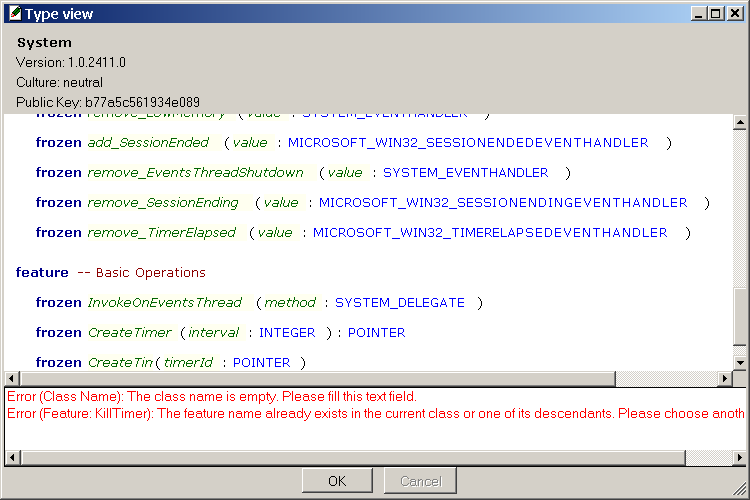
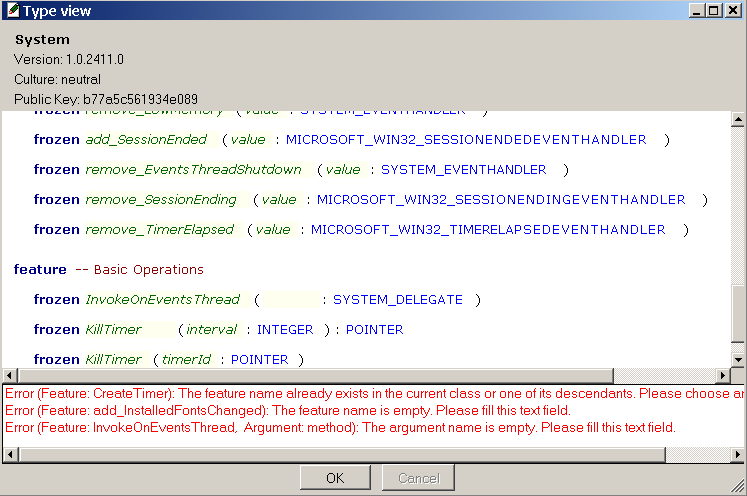
New version
SVN: 25416@trunk

Changed region(s): [[0.0, 0.0, 1.0, 1.0], [0.3079, 0.5746, 0.6158, 0.756]]

diff --git a/Src/dotnet/reflection_interface/docs/reference/30_type_view/index.html b/Src/dotnet/reflection_interface/docs/reference/30_type_view/index.html
@@ -16,8 +16,13 @@
 
 		<p>
 			The type view is an editable short form of an Eiffel class. At the top of the window, the name, version, culture and public key of the assembly the edited type belongs to is repeated.<br>
-			In the panel below, you will notice that some words appear with a colored background. These are the words, which are editable. It includes the class name (the Eiffel one), the name of each feature and its arguments names (if any), except for the creation routine.
+			In the panel below, you will notice that some words appear with a colored background. These are the words, which are editable. It includes the the name of each local feature and its arguments names (if any), except for the creation routine.
 		</p>
+
+		<p class = "note">
+			<b>Note</b>: Only <b>local features</b> (i.e. first defined in the currently edited class) and its arguments names are editable. If you want to rename a feature, which is inherited (or an argument whose related feature is inherited) you have to switch to the parent class to change the feature name (or argument name).
+		</p>
+
 		<p>
 			<center>
 				<img src = "../../images/type_view.png" no border>
@@ -28,14 +33,9 @@
 		<h2>Facilities provided by the type view:</h2>
 
 		<ul>
-		<a name = rename_class></a>
-		<li><b>Rename an external class</b><br>
-			When you open the type view (by clicking on the type Eiffel name in the <a href = "../20_assembly_view/index.html">assembly view</a>), the class name text field is automatically selected. You just have to type the new class name.
-		</li><br>
-
 		<a name = rename_feature></a>
 		<li><b>Rename a class feature</b><br>
-			To rename a feature, just give the focus to the text field you want to edit (by clicking with the mouse) and type the new feature name.
+			When you open the type view (by clicking on the type Eiffel name in the <a href = "../20_assembly_view/index.html">assembly view</a>), the text field with first class feature name is automatically selected. You just have to type the new feature name.
 		</li><br>
 
 		<a name = rename_argument></a>
@@ -46,7 +46,7 @@
 
 		<p>
 			Note that your changes will only be taken into account when you click on `OK'. If you click on `Cancel', your changes will be lost.<br>
-			Nevertheless, ISE Assembly Manager first checks that your changes are consistent before saving them. In case problems are detected, the list of errors appears at the bottom of the type view. Each error mentions the location of the error, that is "Class name" or "Feature name" (and the original name of the problematic feature) or "Argument name" (with the name of the feature it belongs to and the original name of the argument).
+			Nevertheless, ISE Assembly Manager first checks that your changes are consistent before saving them. In case problems are detected, the list of errors appears at the bottom of the type view. Each error mentions the location of the error, that is "Feature name" (and the original name of the problematic feature) or "Argument name" (with the name of the feature it belongs to and the original name of the argument).
 		</p>
 		<p>
 			<center>

diff --git a/Src/dotnet/reflection_interface/docs/reference/01_imported_assembly_viewer/index.html b/Src/dotnet/reflection_interface/docs/reference/01_imported_assembly_viewer/index.html
@@ -43,7 +43,7 @@
 					</center>
 				</p>
 				<p>
-					The first six menu items enable you to show new columns in the array. By default, only the assembly name and the path to Eiffel  sources are visible. But you may want to see also the assembly version, culture and public key or assembly dependencies That is the aim of these six items. The first six toolbar buttons give you the same opportunity: <img src = "../../images/imported_assembly_viewer_view_toolbar.png" no border><br>
+					The first six menu items enable you to show new columns in the table. By default, only the assembly name and the path to Eiffel  sources are visible. But you may want to see also the assembly version, culture and public key or assembly dependencies That is the aim of these six items. The first six toolbar buttons give you the same opportunity: <img src = "../../images/imported_assembly_viewer_view_toolbar.png" no border><br>
 					The last two items of the `View' menu are only a faster way to show all columns or come back to the initial layout.
 				</p>
 				<p>
@@ -54,7 +54,7 @@
 					</center>
 				</p>
 				<p class = "note">
-					<b>Note</b> that when you click on `Show dependencies', a new column will be added to the initial array. But it will only show the names of dependencies. If you want some more precise information about them, just select `Dependency Viewer' in the `Tools' menu to open the <a href = "../10_dependency_viewer/index.html">dependency viewer</a> and have a more complete view of each dependency.
+					<b>Note</b> that when you click on `Show dependencies', a new column will be added to the initial table. But it will only show the names of dependencies. If you want some more precise information about them, just select `Dependency Viewer' in the `Tools' menu to open the <a href = "../10_dependency_viewer/index.html">dependency viewer</a> and have a more complete view of each dependency.
 				</p>
 
 			<h3>The `Tools' menu</h3>
@@ -103,7 +103,7 @@
 			</p>
 			<ul>
 				<li><b>Help Topics</b></li><br>
-					This item (as well as the toolbar button <img src = "../../images/help_toolbar_button.png" no border>) opens the help topics about ISE Eiffel Studio where you can find the current help about ISE Assembly Manager.
+					This item (as well as the toolbar button <img src = "../../images/help_toolbar_button.png" no border>) opens the current help about ISE Assembly Manager.
 				<br><br>
 
 				<li><b>About ISE Assembly Manager</b></li><br>

diff --git a/Src/dotnet/reflection_interface/docs/introduction.html b/Src/dotnet/reflection_interface/docs/introduction.html
@@ -12,12 +12,12 @@
 		<P>Availability: Enterprise Edition</P>
 
 		<p>
-			To use the APIs of the .NET framework in your Eiffel Sharp systems, you need to emit the external Eiffel classes corresponding to these assemblies.	ISE Assembly Manager provides you with a simple way to do this. The only requirement is that the assembly you want to import to the "Eiffel assembly cache" is signed.<br>
-			Once you have imported the assemblies to the Eiffel assembly cache, ISE Assembly Manager gives you another powerful ability: edit types of the imported assemblies. Thus you will be able to change the automatically generated names of class, features and arguments to have a user-friendlier interface. Of course, ISE Assembly Manager will check the consistency of your modifications before saving the changes and updating the corresponding Eiffel classes.
+			To use the APIs of the .NET framework in your Eiffel Sharp systems, you need to emit the <a href = "./reference/00_definitions/external_class.html">external Eiffel classes</a> corresponding to these assemblies.	ISE Assembly Manager provides you with a simple way to do this. The only requirement is that the assembly you want to import to the "<a href = "./reference/00_definitions/eiffel_assembly_cache.html">Eiffel assembly cache</a>" is signed.<br>
+			Once you have imported the assemblies to the Eiffel assembly cache, ISE Assembly Manager gives you another powerful ability: edit types of the imported assemblies. Thus you will be able to change the automatically generated names of class features and arguments to have a user-friendlier interface. Of course, ISE Assembly Manager will check the consistency of your modifications before saving the changes and updating the corresponding Eiffel classes.
 		</p>
 		<p>
 			Since the importation time is quite long (a few minutes to up to twenty minutes for assemblies such as `System.Windows.Forms.dll', which have many dependencies), the most commonly used assemblies of the .NET framework are already imported to the Eiffel assembly cache in the delivery. <br>
-			Thus you will be able to enjoy the possibility of renaming your Eiffel classes as soon as you get the ISE Assembly Manager delivery.
+			Thus you will be able to enjoy the possibility of renaming your Eiffel classes features as soon as you get the ISE Assembly Manager delivery.
 		</p>
 		<p>
 			<b>Happy Eiffel Sharp developing with ISE Assembly Manager !</b>

diff --git a/Src/dotnet/reflection_interface/docs/how_to_s/01_import_a_signed_assembly_to_the_EAC/index.html b/Src/dotnet/reflection_interface/docs/how_to_s/01_import_a_signed_assembly_to_the_EAC/index.html
@@ -26,13 +26,13 @@
 		<ul>
 			<li><b>To import a signed assembly, which is in the Global Assembly Cache:</b></li><br>
 			<ol>
-				<li>Click on the name of the shared assembly you want to import (in the array listing all shared assemblies)</li>
-				<li>Click on the following toolbar button <img src = "../../images/import_dialog_toolbar_button.png" no border> or select the menu item `Import' in the `Tools' menu. In both cases, the <a href = "../../reference/70_import_dialog/index.html">import dialog</a> will appear and guide you to import the selected assembly to the Eiffel assembly cache.</li>
+				<li>Click on the name of the shared assembly you want to import (in the table listing all shared assemblies)</li>
+				<li>Click on the following toolbar button <img src = "../../images/import_dialog_toolbar_button.png" no border> or select the menu item `Import' in the `Tools' menu. In both cases, the <a href = "../../reference/70_import_dialog/index.html">import dialog</a> will appear and help you import the selected assembly to the Eiffel assembly cache.</li>
 			</ol>
 			<br>
 			<li><b>To import a signed assembly, which is in not in the Global Assembly Cache:</b></li><br>
 			<p>
-				Click on the open toolbar button <img src = "../../images/open_assembly_toolbar_button.png" no border> or select the menu item `Open Assembly' in the `File' menu. In both cases, the <a href = "../../reference/80_open_assembly_dialog/index.html">open assembly dialog</a> will appear. You just have to select the signed assembly you want to import and click on `Open' to open the <a href = "../../reference/70_import_dialog/index.html">import dialog</a>, which will guide you to import the selected assembly to the Eiffel assembly cache.
+				Click on the open toolbar button <img src = "../../images/open_assembly_toolbar_button.png" no border> or select the menu item `Open Assembly' in the `File' menu. In both cases, the <a href = "../../reference/80_open_assembly_dialog/index.html">open assembly dialog</a> will appear. You just have to select the signed assembly you want to import and click on `Open' to open the <a href = "../../reference/70_import_dialog/index.html">import dialog</a>, which will help you import the selected assembly to the Eiffel assembly cache.
 			</p>
 		</ul>
 		<br>

diff --git a/Src/dotnet/reflection_interface/docs/reference/40_remove_dialog/index.html b/Src/dotnet/reflection_interface/docs/reference/40_remove_dialog/index.html
@@ -18,27 +18,12 @@
 			The remove dialog aims at enabling you to remove an imported assembly from the Eiffel assembly cache. Nevertheless, it tries to make sure you really want to remove the selected assembly since the importation time is quite long (up to twenty minutes for some assemblies, such as `System.Windows.Forms').<br>
 			At the top of the window, you can find the name, version, culture and public key of the selected assembly for removal, so that there cannot be any misunderstanding about the assembly to remove. <br>
 			At this point, you still have the possibility not to remove the assembly by clicking on the `No' button.<br>
-			In case you really want to remove the assembly, you also have the opportunity to remove its dependencies. To do so, you just have to check the box `Remove dependencies'. By default, the option to remove dependencies is not checked.
+			ISE Assembly Manager will remove the selected assembly as soon as you click `Yes'.
 		</p>
 		<p>
 			<center>
 				<img src = "../../images/remove_dialog.png" no border>
 			</center>
 		</p>
-		<p>
-			If the box `Remove dependencies' is not checked, ISE Assembly Manager will remove the selected assembly as soon as you click `Yes'. Otherwise, a warning dialog appears to avoid any mistakes:
-		</p>
-		<p>
-			<center>
-				<img src = "../../images/warning_remove.png" no border>
-			</center>
-		</p>
-		<p>
-			The warning almost looks like the <a href = "../10_dependency_viewer/index.html">dependency viewer</a> except that it asks you to confirm the removal of the assembly and its dependencies.
-		</p>
-		<ul>
-			<li>If you click on `<b>Yes</b>', ISE Assembly Manager will remove <b>the selected assembly and its dependencies</b> (except the kernel assembly `mscorlib.dll', which cannot be removed from the Eiffel assembly cache).</li>
-			<li>If you click on `<b>No</b>', only <b>the selected assembly</b> will be removed.</li>
-		</ul>
 	</body>
 </html>

diff --git a/Src/dotnet/reflection_interface/docs/how_to_s/20_edit_an_imported_assembly/index.html b/Src/dotnet/reflection_interface/docs/how_to_s/20_edit_an_imported_assembly/index.html
@@ -21,15 +21,14 @@
 				You are now ready to remove an assembly from the Eiffel assembly cache.
 			</li><br>
 			<li>
-				Click on the name of the assembly you want to edit (in the array).
+				Click on the name of the assembly you want to edit (in the table).
 			</li><br>
 			<li>
 				Then you have the choice between clicking on the toolbar button <img src = "../../images/edit_toolbar_button.png" no border> and selecting the menu item `Edit' in the `Tools' menu. In both cases the <a href = "../../reference/20_assembly_view/index.html">assembly view</a> will appear, displaying the list of types in the assembly. If you want to edit a particular type, just simple click on the type name (the Eiffel name) and the <a href = "../../reference/30_type_view/index.html">type view</a> will be opened.<br>
-				This class short form is editable: it gives you the opportunity to rename the class name, the name of each feature and its arguments names.
+				This class short form is editable: it gives you the opportunity to rename the name of each feature and its arguments names.
 				<p>
 					<b>See</b>:
 						<ul>
-							<li><a href = "../../reference/30_type_view/index.html#rename_class">How to rename an external class?</a></li>
 							<li><a href = "../../reference/30_type_view/index.html#rename_feature">How to rename a class feature?</a></li>
 							<li><a href = "../../reference/30_type_view/index.html#rename_argument">How to rename a feature argument?</a></li>
 						</ul>

diff --git a/Src/dotnet/reflection_interface/docs/guided_tour/01_import_a_signed_assembly_to_the_EAC/index.html b/Src/dotnet/reflection_interface/docs/guided_tour/01_import_a_signed_assembly_to_the_EAC/index.html
@@ -15,7 +15,7 @@
 		</center>
 		<br>
 		<p>
-			ISE Assembly Manager mainly aims at providing you with the ability to edit assembly types to have user-friendlier names than the automatically generated ones. Therefore some useful assemblies will already be imported when you first use the product. <br>Nevertheless, you will certainly want to import other assemblies from the Global Assembly Cache or simply import some assemblies you generated. This is the reason why our guided tour begins by a step by step description on how to import an assembly to the Eiffel assembly cache.
+			ISE Assembly Manager mainly aims at providing you with the ability to edit assembly types to have user-friendlier names than the automatically generated ones. Therefore some useful assemblies will already be imported when you first use the product. <br>Nevertheless, you will certainly want to import other assemblies from the Global Assembly Cache or simply import some assemblies you generated. This is the reason why our guided tour begins by a step by step description on how to import an assembly to the <a href = "../reference/00_definitions/eiffel_assembly_cache.html">Eiffel assembly cache</a>.
 		</p>
 		<p>
 			<CENTER>

diff --git a/Src/dotnet/reflection_interface/docs/how_to_s/10_remove_an_assembly_from_the_EAC/index.html b/Src/dotnet/reflection_interface/docs/how_to_s/10_remove_an_assembly_from_the_EAC/index.html
@@ -21,11 +21,10 @@
 				You are now ready to remove an assembly from the Eiffel assembly cache.<br>
 			</li><br>
 			<li>
-				Click on the name of the assembly you want to remove (in the array).
+				Click on the name of the assembly you want to remove (in the table).
 			</li><br>
 			<li>
-				Then you have the choice between clicking on the toolbar button <img src = "../../images/remove_toolbar_button.png" no border> and selecting the menu item `Remove' in the `Tools' menu. In both cases the <a href = "../../reference/40_remove_dialog/index.html">remove dialog</a> will appear and guide you to remove the assembly.
-			</li>
+				Then you have the choice between clicking on the toolbar button <img src = "../../images/remove_toolbar_button.png" no border> and selecting the menu item `Remove' in the `Tools' menu. In both cases the <a href = "../../reference/40_remove_dialog/index.html">remove dialog</a> will appear and help you remove the assembly.			</li>
 		</ol>
 		</p>
 	</body>

diff --git a/Src/dotnet/reflection_interface/docs/reference/60_import_tool/index.html b/Src/dotnet/reflection_interface/docs/reference/60_import_tool/index.html
@@ -51,7 +51,7 @@
 					</center>
 				</p>
 				<p>
-					The first five menu items enable you to show new columns in the array. By default, only the assembly name is visible. But you may want to see also the assembly version, culture and public key or assembly dependencies. That is the aim of these five items. The first five toolbar buttons give you the same opportunity: <img src = "../../images/import_tool_view_toolbar.png" no border><br>
+					The first five menu items enable you to show new columns in the table. By default, only the assembly name is visible. But you may want to see also the assembly version, culture and public key or assembly dependencies. That is the aim of these five items. The first five toolbar buttons give you the same opportunity: <img src = "../../images/import_tool_view_toolbar.png" no border><br>
 					The last two items of the `View' menu are only a faster way to show all columns or come back to the initial layout.
 				</p>
 				<p class = "note">

diff --git a/Src/dotnet/reflection_interface/docs/reference/10_dependency_viewer/index.html b/Src/dotnet/reflection_interface/docs/reference/10_dependency_viewer/index.html
@@ -16,7 +16,7 @@
 
 		<p>
 			The dependency viewer lists all dependencies of the selected assembly (whose name, version, culture and public key are repeated at the top of the dialog), that is imported and non-imported assemblies. <br>
-			The dependencies appear in an array, containing the name, version, culture and public key of each dependency. This is useful in case there are two dependencies with the same name, but different version for example. The dependencies are automatically sorted by assembly names.<br>
+			The dependencies appear in an table, containing the name, version, culture and public key of each dependency. This is useful in case there are two dependencies with the same name, but different version for example. The dependencies are automatically sorted by assembly names.<br>
 			The dependency viewer is not a modal window, which enables you to have it opened while working with ISE Assembly Manager.
 		</p>
 		<p>

diff --git a/Src/dotnet/reflection_interface/docs/reference/80_open_assembly_dialog/index.html b/Src/dotnet/reflection_interface/docs/reference/80_open_assembly_dialog/index.html
@@ -24,7 +24,7 @@
 			</center>
 		</p>
 		<p>
-			When you click on `Open', ISE Assembly Manager will first check that the selected assembly is signed. If it is a signed assembly, it will open the <a href = "../70_import_dialog/index.html">import dialog</a>, which will guide you to import the assembly. Otherwise, a message box will appear, inviting you to sign the assembly before importing it with the assembly manager.
+			When you click on `Open', ISE Assembly Manager will first check that the selected assembly is signed. If it is a signed assembly, it will open the <a href = "../70_import_dialog/index.html">import dialog</a>, which will help you import the assembly. Otherwise, a message box will appear, inviting you to sign the assembly before importing it with the assembly manager.
 		</p>
 	</body>
 </html>

diff --git a/Src/dotnet/reflection_interface/docs/how_to_s/40_view_assembly_dependencies/index.html b/Src/dotnet/reflection_interface/docs/how_to_s/40_view_assembly_dependencies/index.html
@@ -21,7 +21,7 @@
 				_assembly_viewer/index.html">imported assembly viewer</a> and from the <a href = "../../reference/60_import_tool/index.html">import tool</a>.
 			</li><br>
 			<li>
-				Click on the name of the assembly you want to see the dependencies (in the array).
+				Click on the name of the assembly you want to see the dependencies (in the table).
 			</li><br>
 			<li>
 				Then you have the choice between clicking on the toolbar button <img src = "../../images/dependency_viewer_toolbar_button.png" no border> and selecting the menu item `Dependency Viewer' in the `Tools' menu. In both cases the <a href = "../../reference/10_dependency_viewer/index.html">dependency viewer</a> will appear.
